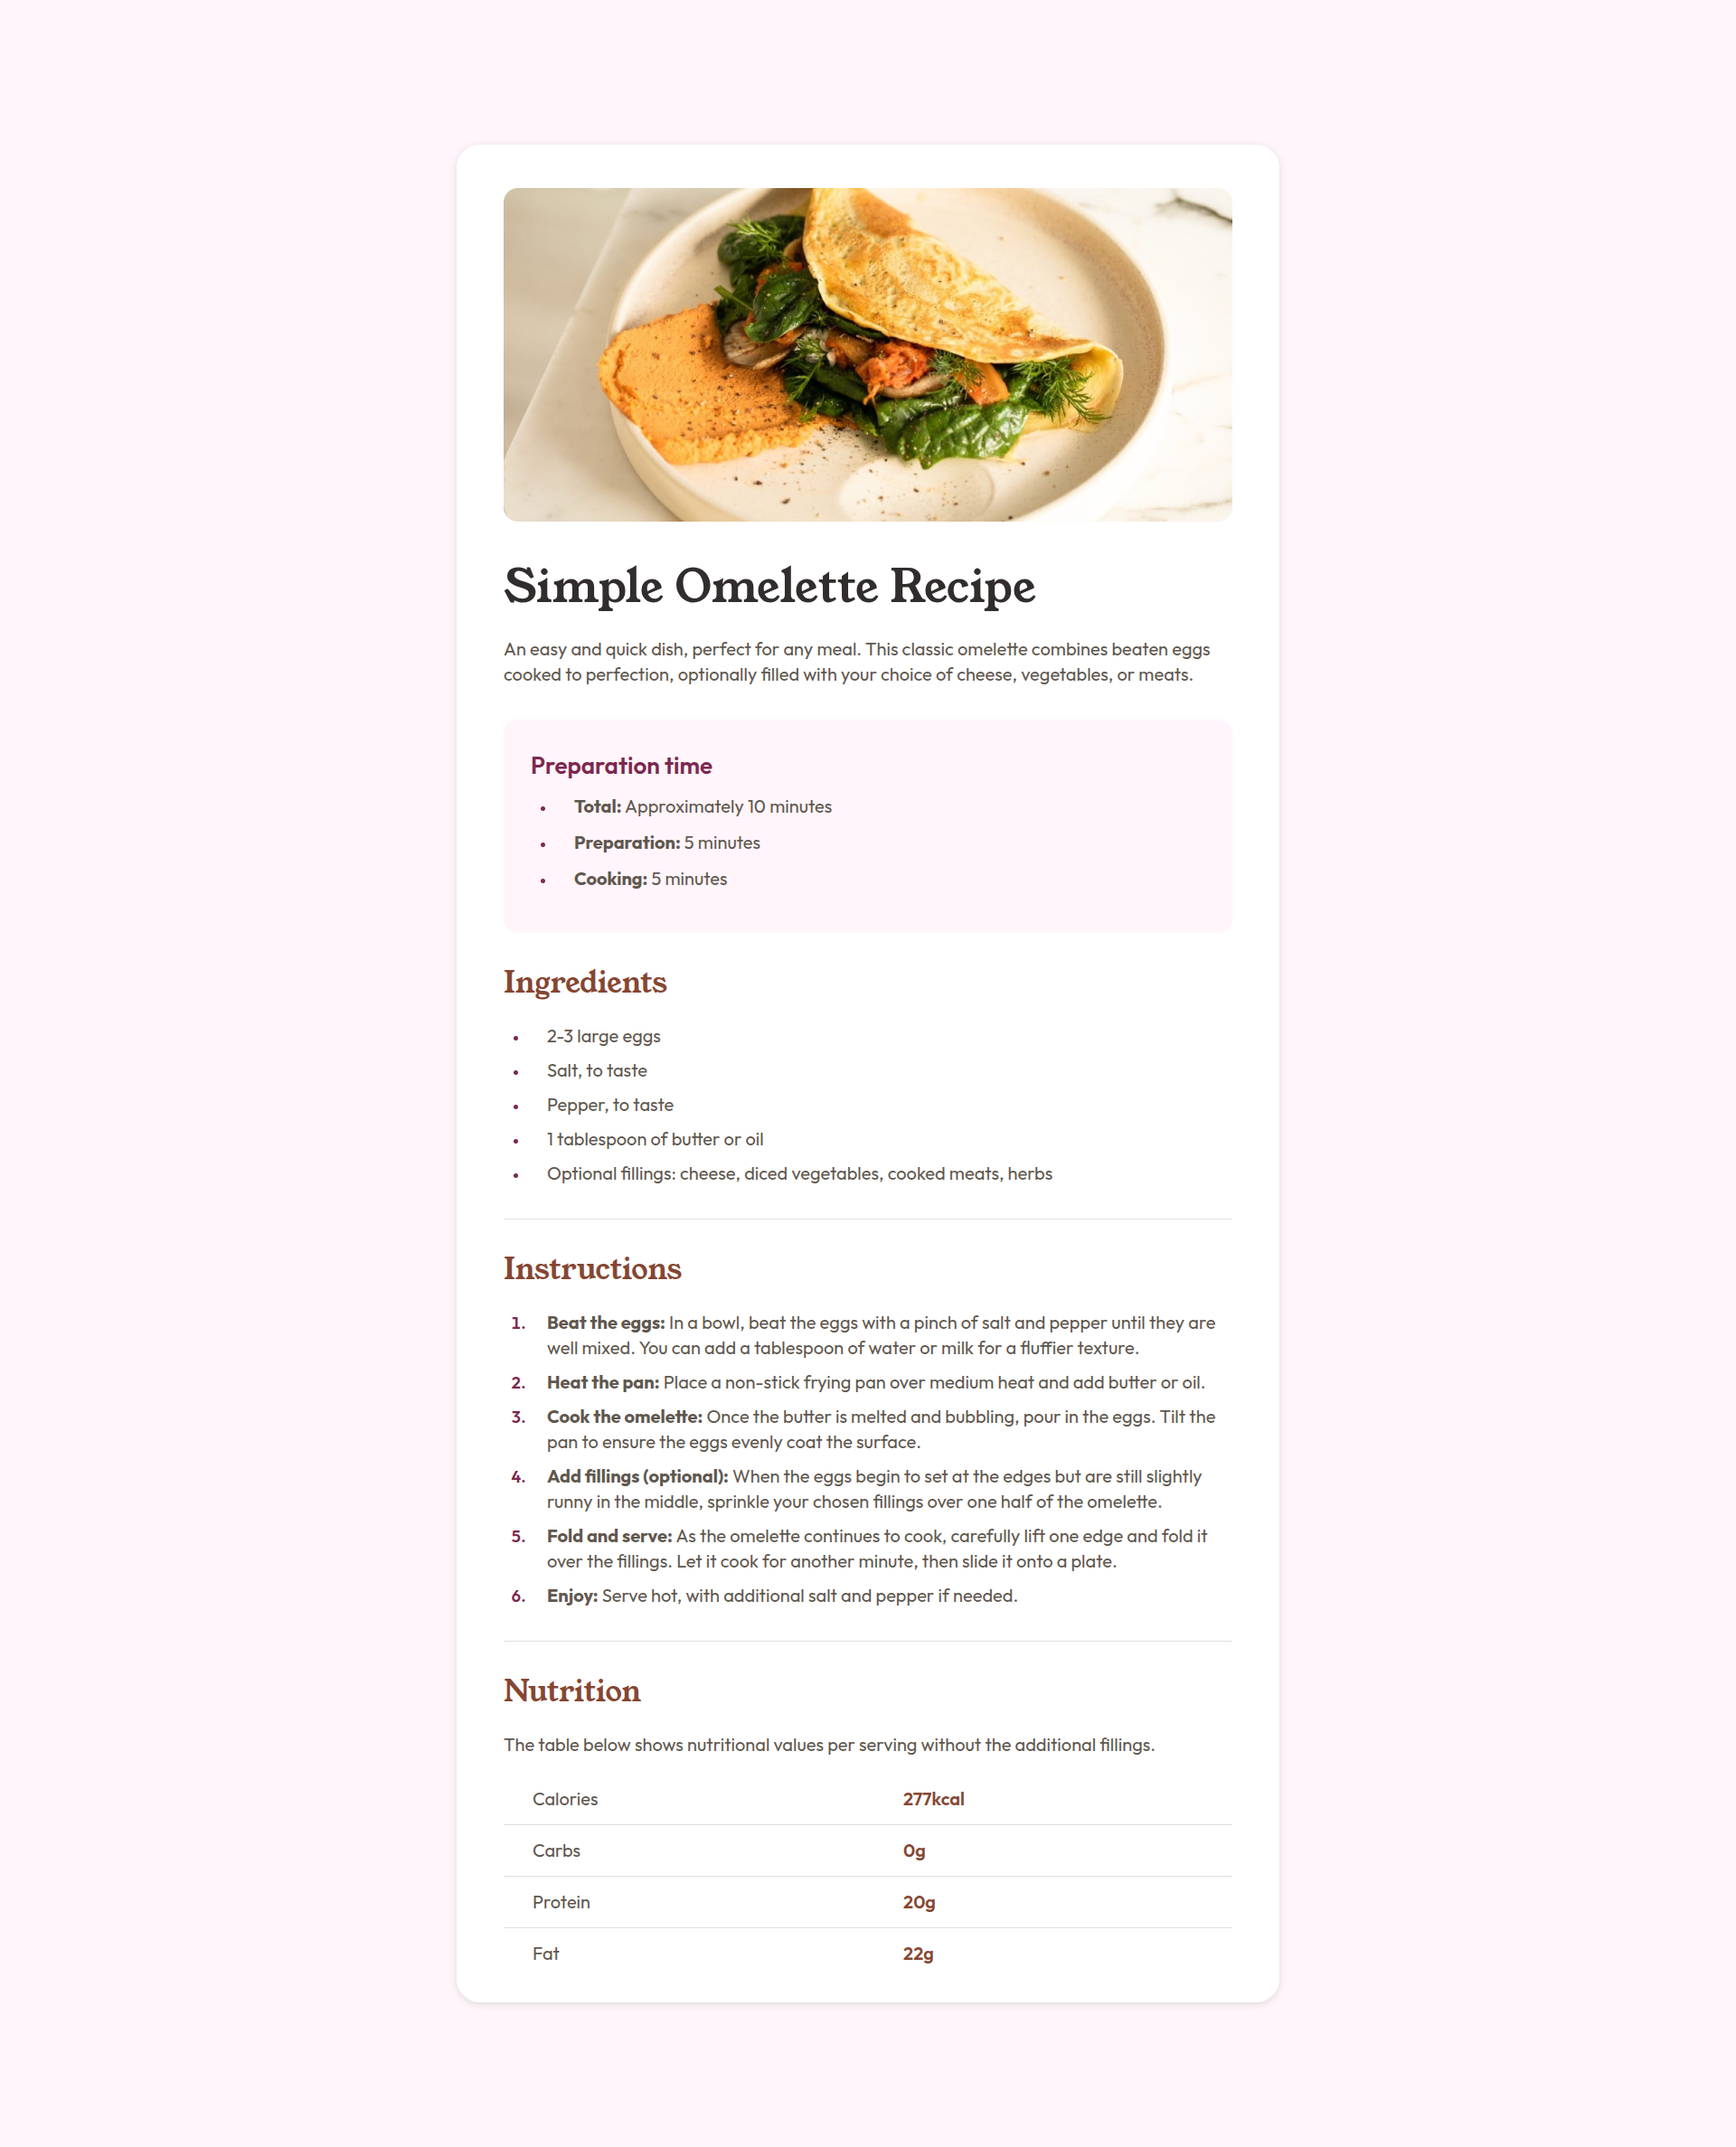
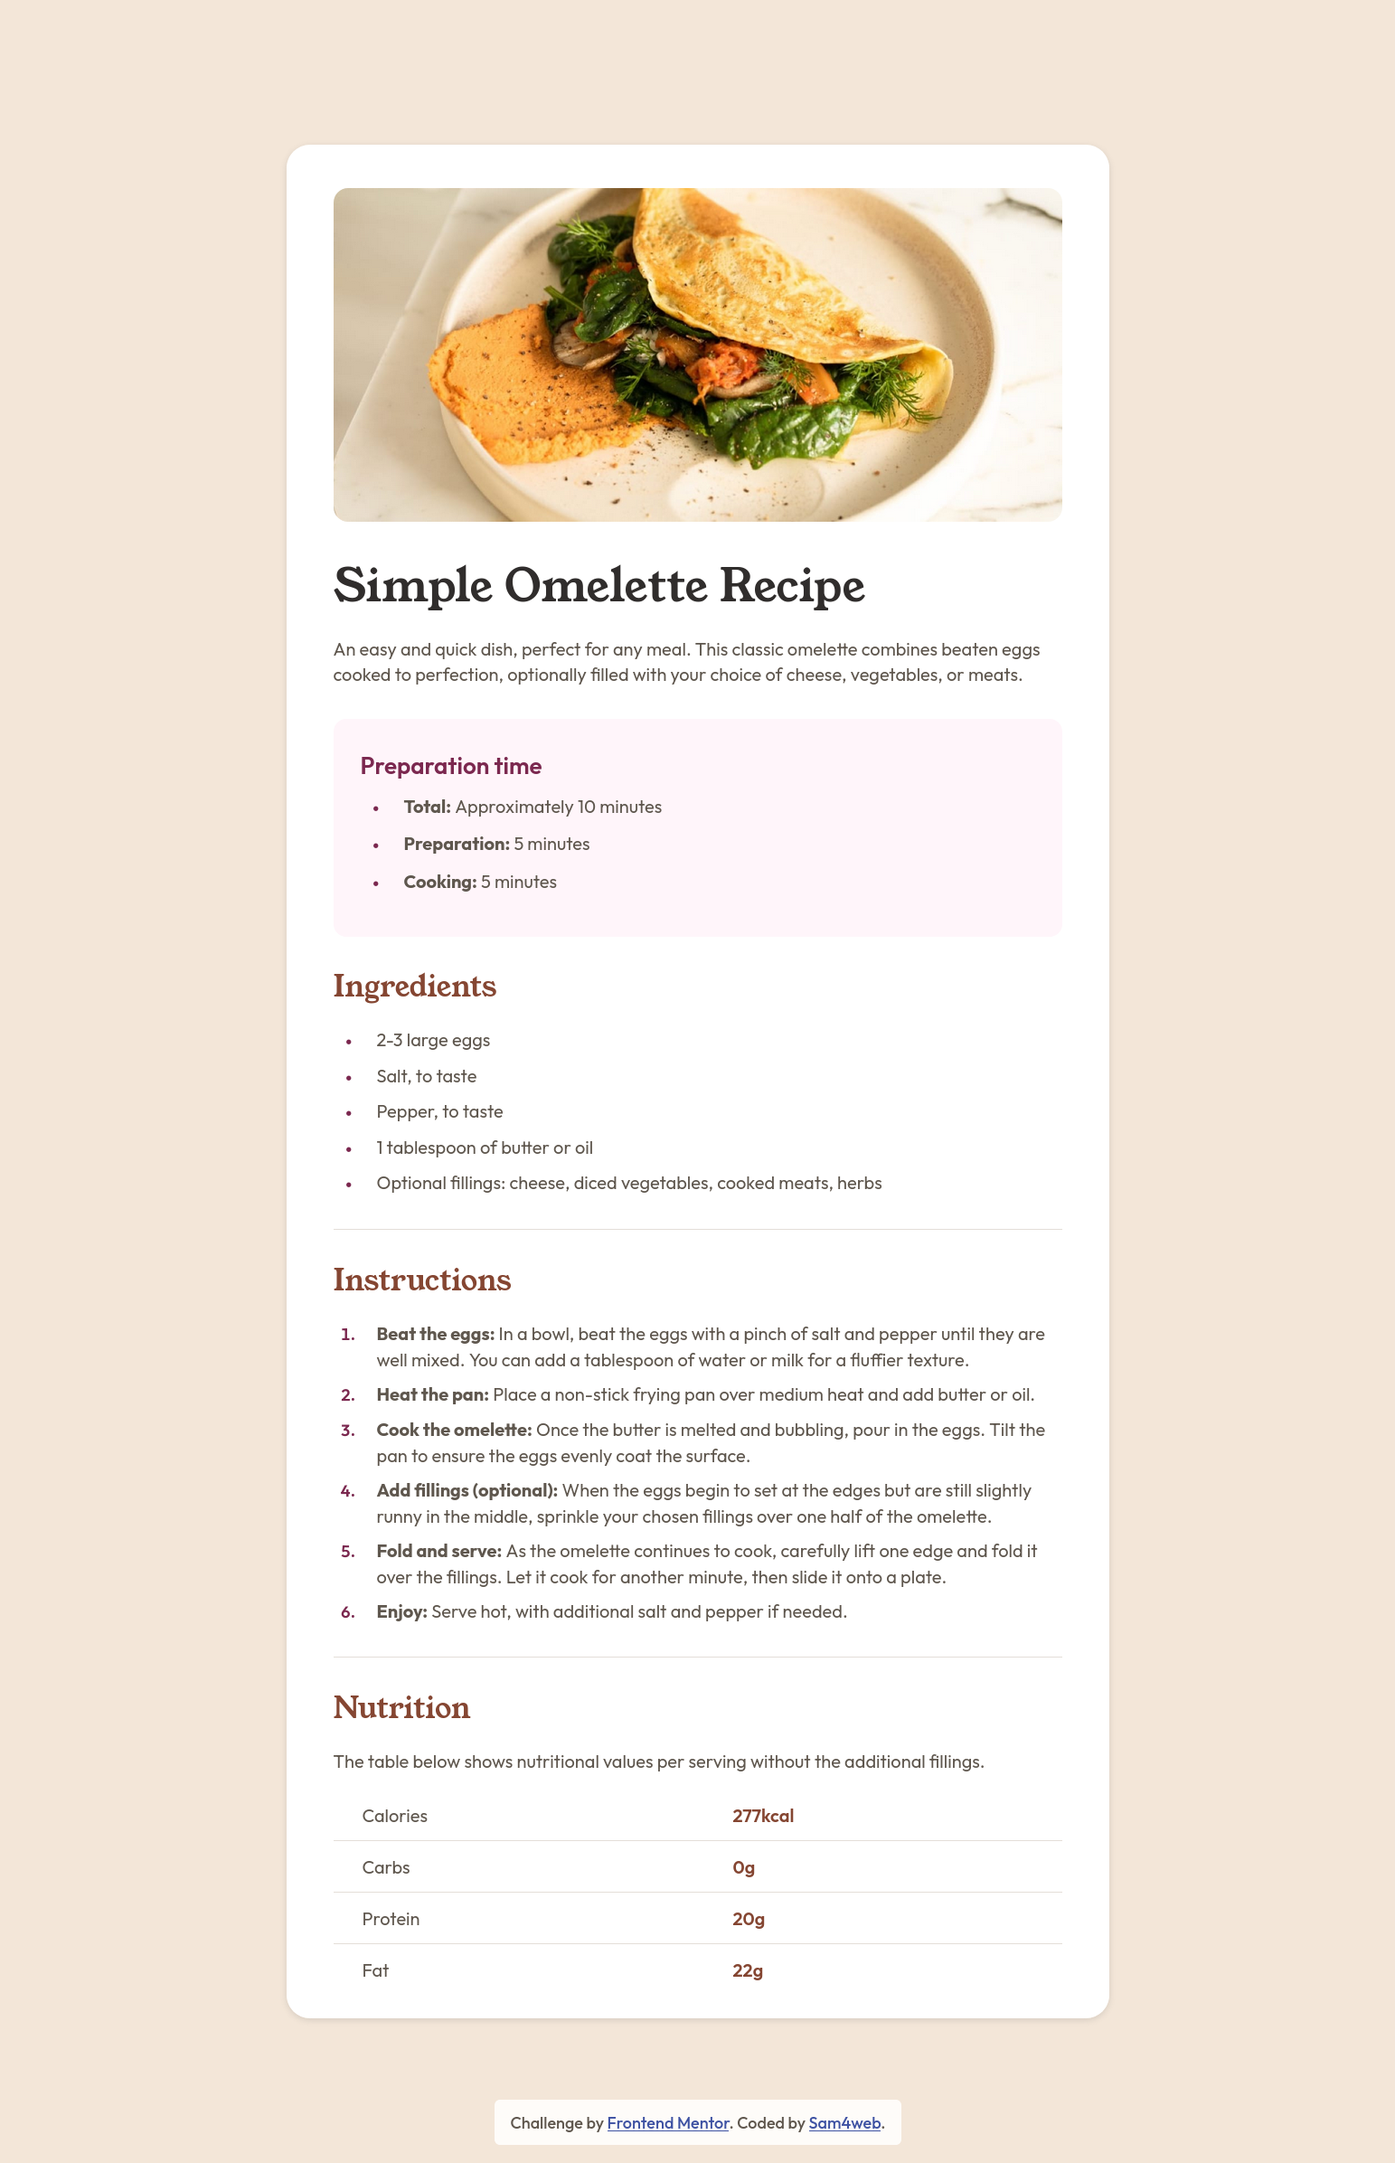
add attribution, update screenshot & README.md

diff --git a/index.html b/index.html
@@ -122,7 +122,7 @@
                 </div>
             </div>
         </main>
-<!--
+
         <div id="attribution">
             Challenge by
             <a
@@ -136,7 +136,7 @@
                 target="_blank"
             >
                 Sam4web</a
-            >.-->
+            >.
         </div>
     </body>
 </html>

diff --git a/README.md b/README.md
@@ -18,7 +18,7 @@ This is a solution to the [Recipe page challenge on Frontend Mentor](https://www
 
 ### Links
 
-- Solution URL: [Add solution URL here](https://your-solution-url.com)
+- Solution URL: [Add solution URL here](https://www.frontendmentor.io/solutions/recipe-page-EiZMpFna1j)
 - Live Site URL: [Live Site URL](https://sam4web.github.io/recipe-page/)
 
 ## Built with
